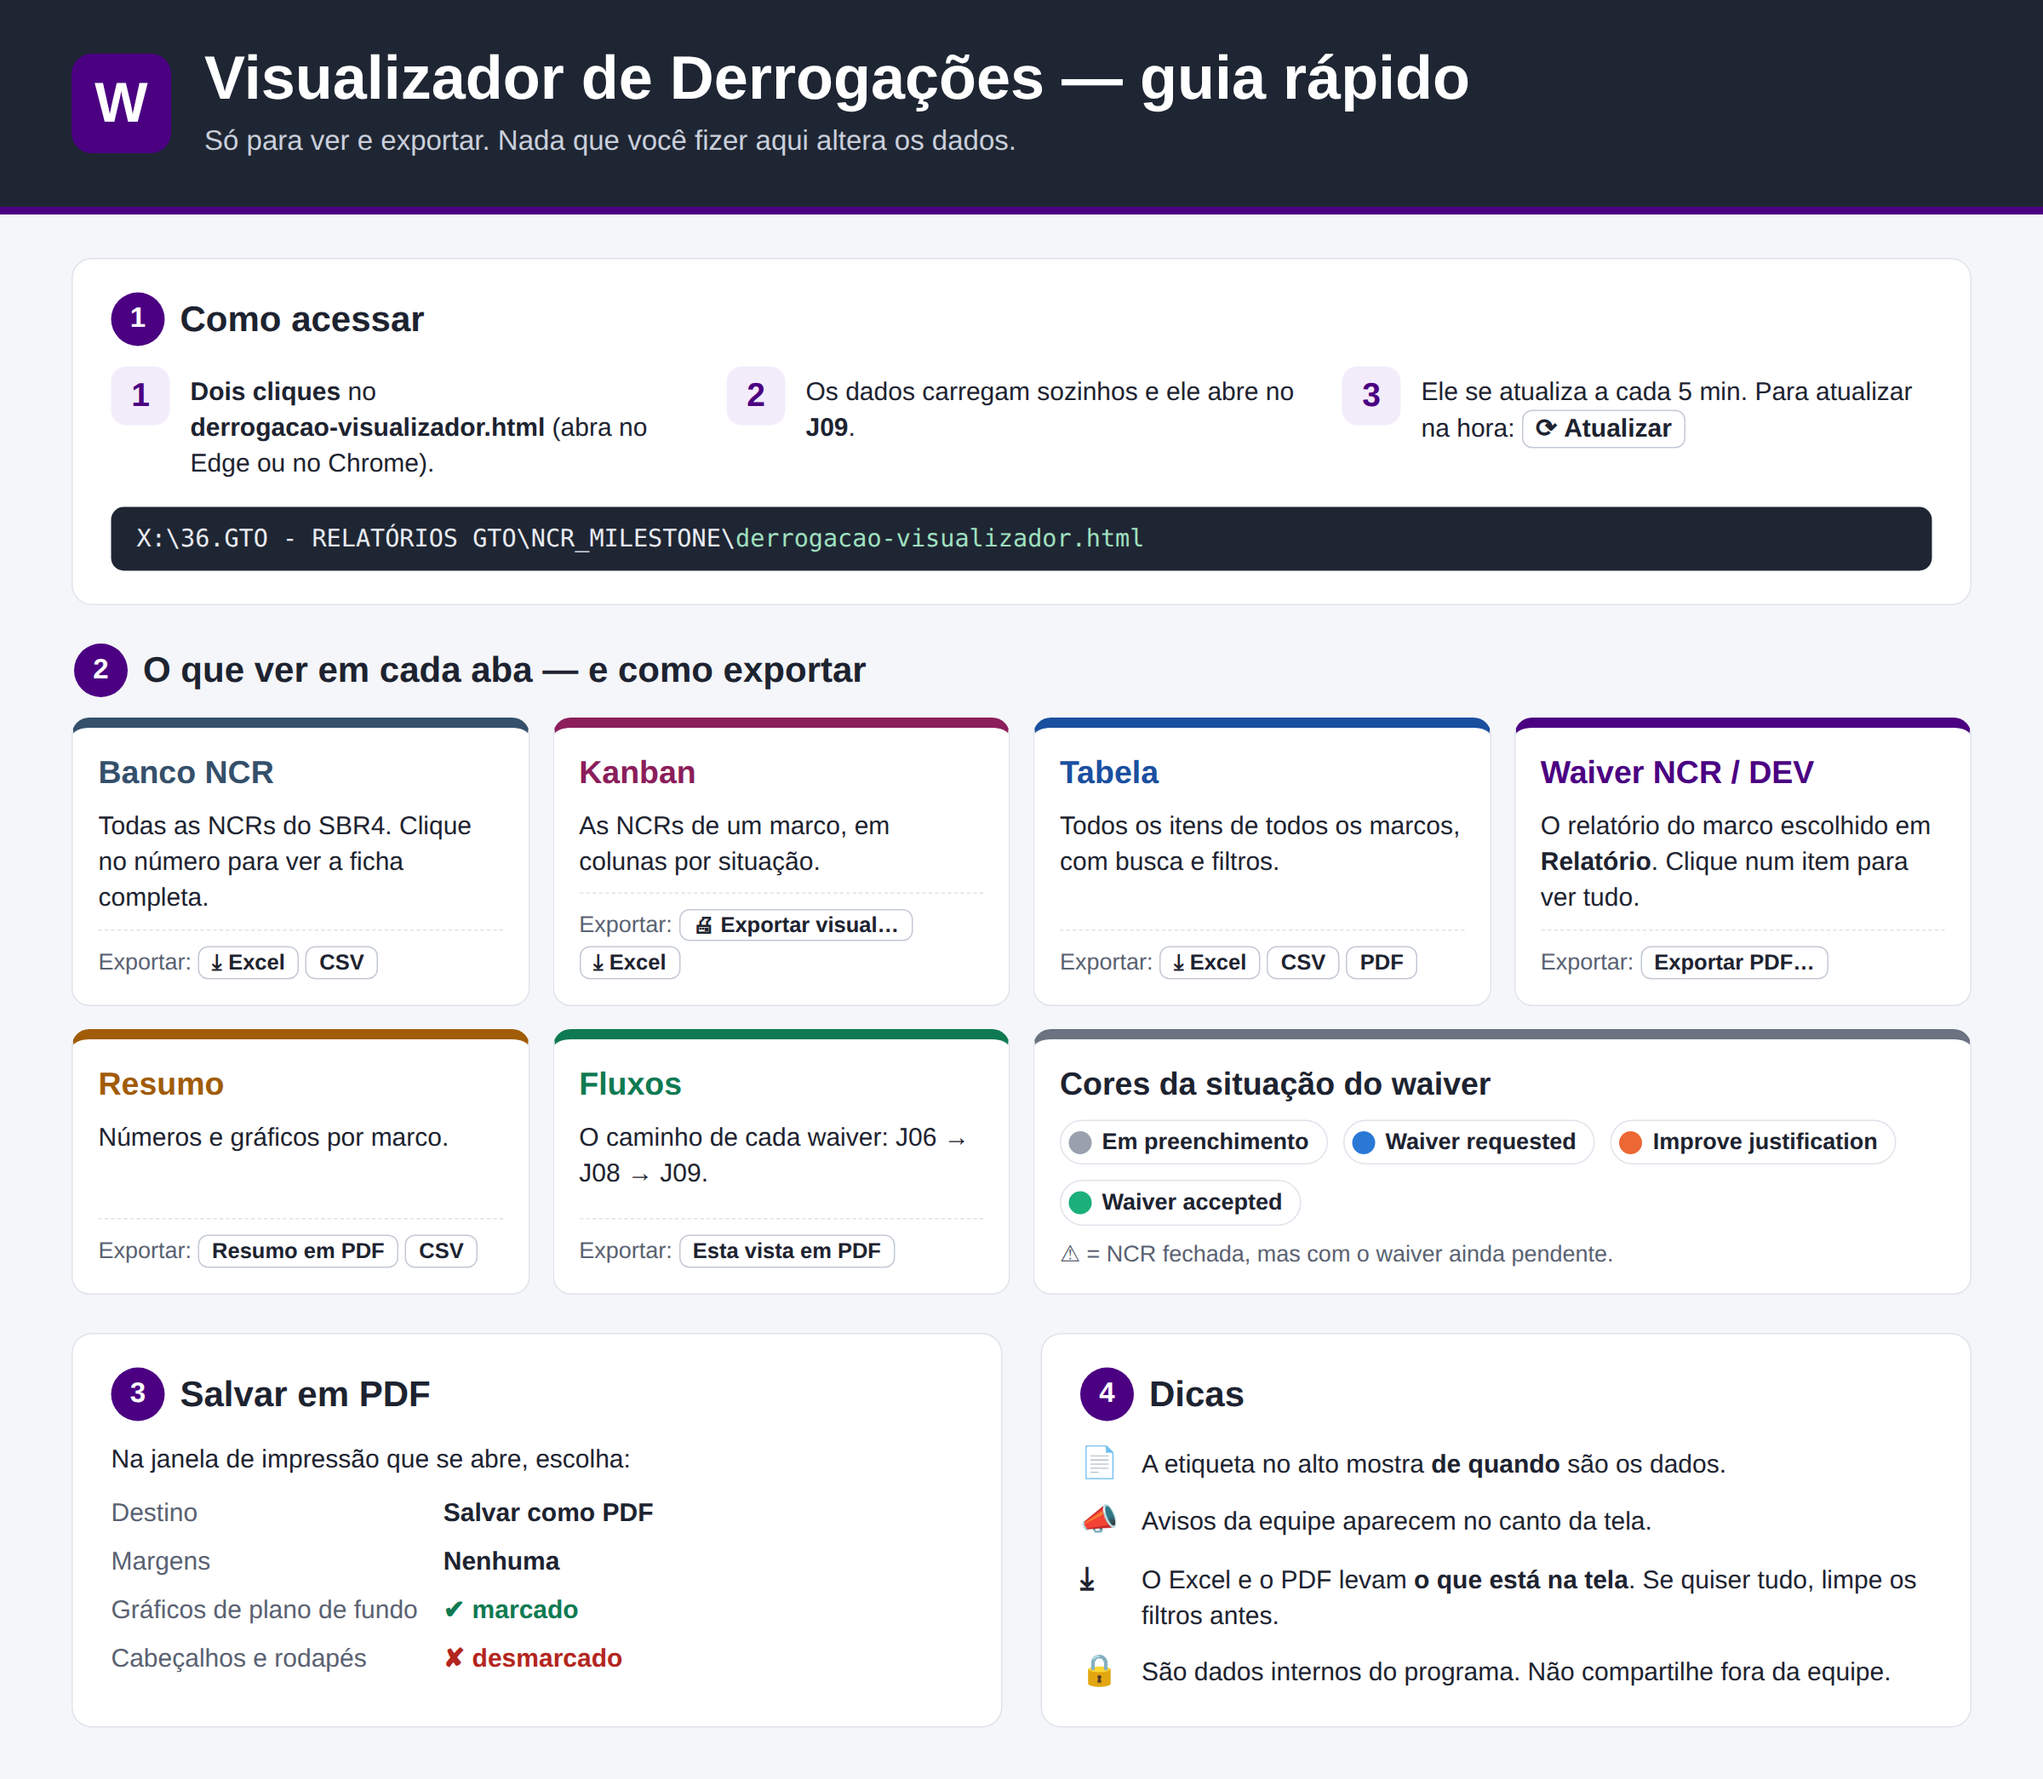
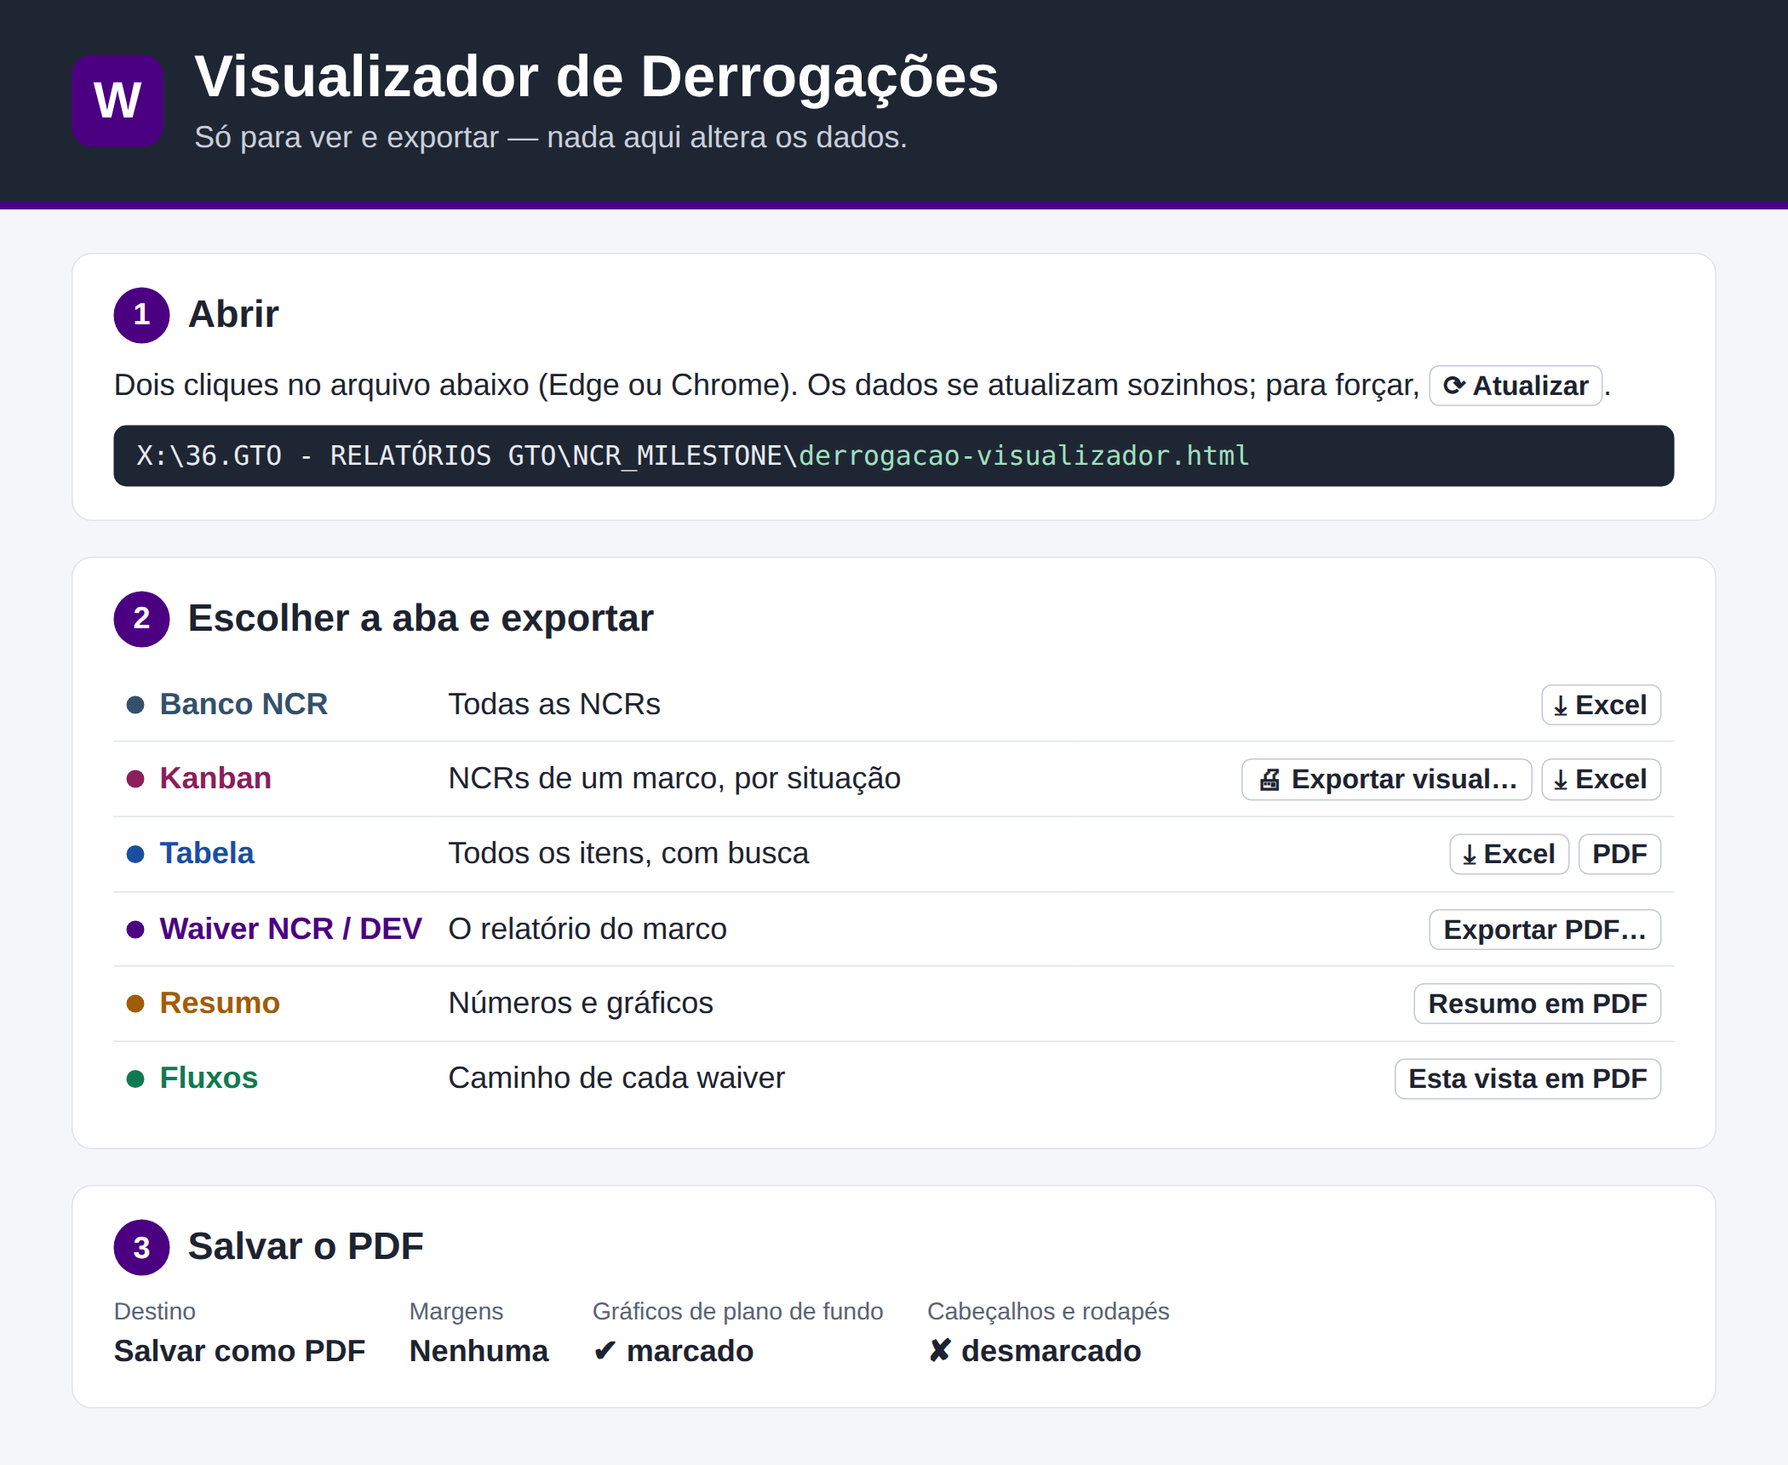
Guia do visualizador ainda mais simples: abrir, abas e salvar o PDF
Claude-Session: https://claude.ai/code/session_0136iEdfLGbrAZewDpN8rQhW

diff --git a/docs/visualizador-guia.html b/docs/visualizador-guia.html
@@ -6,64 +6,42 @@
 <!-- Fonte do docs/visualizador-guia.png. Para regerar a imagem depois de
      editar este arquivo: node tools/guia-png.js -->
 <style>
-  :root {
-    --tinta: #1d2330; --suave: #5a6272; --linha: #dfe3ea; --fundo: #f4f6f9;
-    --topo: #1f2633; --roxo: #4B0082;
-  }
+  :root { --tinta: #1d2330; --suave: #5a6272; --linha: #dfe3ea; --fundo: #f4f6f9;
+    --topo: #1f2633; --roxo: #4B0082; }
   * { box-sizing: border-box; }
   body { margin: 0; background: var(--fundo); color: var(--tinta);
-    font: 20px/1.4 "Segoe UI", "Inter", "Helvetica Neue", Arial, sans-serif; }
-  .folha { width: 1600px; padding-bottom: 40px; }
+    font: 24px/1.4 "Segoe UI", "Inter", "Helvetica Neue", Arial, sans-serif; }
+  .folha { width: 1400px; padding-bottom: 44px; }
 
-  .cab { background: var(--topo); color: #fff; padding: 36px 56px; display: flex;
-    align-items: center; gap: 26px; border-bottom: 6px solid var(--roxo); }
-  .logo { width: 78px; height: 78px; border-radius: 16px; background: var(--roxo); flex: none;
-    display: grid; place-items: center; font-weight: 800; font-size: 44px; }
-  .cab h1 { margin: 0; font-size: 48px; line-height: 1.1; }
-  .cab p { margin: 6px 0 0; font-size: 22px; color: #c9cfdb; }
+  .cab { background: var(--topo); color: #fff; padding: 34px 56px; display: flex;
+    align-items: center; gap: 24px; border-bottom: 6px solid var(--roxo); }
+  .logo { width: 72px; height: 72px; border-radius: 16px; background: var(--roxo); flex: none;
+    display: grid; place-items: center; font-weight: 800; font-size: 40px; }
+  .cab h1 { margin: 0; font-size: 46px; line-height: 1.1; }
+  .cab p { margin: 6px 0 0; color: #c9cfdb; }
 
-  .corpo { padding: 34px 56px 0; display: grid; gap: 30px; }
-  h2 { margin: 0 0 16px; font-size: 28px; display: flex; align-items: center; gap: 12px; }
-  h2 .n { width: 42px; height: 42px; border-radius: 50%; background: var(--roxo); color: #fff;
-    display: grid; place-items: center; font-size: 22px; flex: none; }
-  .bloco { background: #fff; border: 1px solid var(--linha); border-radius: 16px; padding: 26px 30px; }
+  .corpo { padding: 34px 56px 0; display: grid; gap: 28px; }
+  .bloco { background: #fff; border: 1px solid var(--linha); border-radius: 16px; padding: 26px 32px; }
+  h2 { margin: 0 0 16px; font-size: 30px; display: flex; align-items: center; gap: 14px; }
+  h2 .n { width: 44px; height: 44px; border-radius: 50%; background: var(--roxo); color: #fff;
+    display: grid; place-items: center; font-size: 24px; flex: none; }
+  p { margin: 0; }
   .btn { display: inline-block; border: 1px solid #c3c9d4; background: #fff; border-radius: 8px;
-    padding: 0 10px; font-weight: 600; white-space: nowrap; }
-
-  /* acessar */
-  .passos { display: grid; grid-template-columns: repeat(3, 1fr); gap: 20px; }
-  .passo { display: flex; gap: 16px; align-items: flex-start; }
-  .passo b.num { flex: none; width: 46px; height: 46px; border-radius: 12px; background: #f3ecfb;
-    color: var(--roxo); display: grid; place-items: center; font-size: 26px; }
-  .passo div { padding-top: 6px; }
-  .pasta { margin-top: 20px; background: var(--topo); color: #e8ebf2; border-radius: 10px;
-    padding: 14px 20px; font: 19px Consolas, "Cascadia Mono", "DejaVu Sans Mono", monospace; }
+    padding: 0 10px; font-weight: 600; white-space: nowrap; font-size: .9em; }
+  .pasta { margin-top: 14px; background: var(--topo); color: #e8ebf2; border-radius: 10px;
+    padding: 12px 18px; font: 21px Consolas, "Cascadia Mono", "DejaVu Sans Mono", monospace; }
   .pasta em { color: #9fe0c0; font-style: normal; }
 
-  /* abas */
-  .abas { display: grid; grid-template-columns: repeat(4, 1fr); gap: 18px; }
-  .aba { background: #fff; border: 1px solid var(--linha); border-top: 8px solid var(--c);
-    border-radius: 14px; padding: 18px 20px; display: flex; flex-direction: column; gap: 10px; }
-  .aba h3 { margin: 0; font-size: 25px; color: var(--c); }
-  .aba p { margin: 0; }
-  .aba .exp { margin-top: auto; padding-top: 10px; border-top: 1px dashed var(--linha);
-    font-size: 18px; color: var(--suave); }
-  .aba .exp .btn { color: var(--tinta); font-size: 17px; margin: 2px 0; }
+  table { width: 100%; border-collapse: collapse; }
+  td { padding: 12px 10px; border-top: 1px solid var(--linha); vertical-align: middle; }
+  tr:first-child td { border-top: 0; }
+  td.aba { font-weight: 700; color: var(--c); white-space: nowrap; width: 250px; }
+  td.aba::before { content: ""; display: inline-block; width: 14px; height: 14px; border-radius: 50%;
+    background: var(--c); margin-right: 12px; }
+  td.exp { text-align: right; white-space: nowrap; }
 
-  .sits { display: flex; gap: 12px; flex-wrap: wrap; align-items: center; }
-  .sit { display: inline-flex; align-items: center; gap: 8px; font-weight: 600; font-size: 18px;
-    border: 1px solid var(--linha); border-radius: 999px; padding: 4px 14px 4px 6px; background: #fff; }
-  .sit i { width: 18px; height: 18px; border-radius: 50%; background: var(--c); }
-
-  /* pdf e dicas */
-  .dupla { display: grid; grid-template-columns: 1fr 1fr; gap: 30px; }
-  .pdf { display: grid; grid-template-columns: auto 1fr; gap: 10px 20px; }
-  .pdf span:nth-child(odd) { color: var(--suave); }
-  .pdf span:nth-child(even) { font-weight: 700; }
-  .ok { color: #0f7a52; } .no { color: #b3261e; }
-  .dicas { margin: 0; padding: 0; list-style: none; display: grid; gap: 12px; }
-  .dicas li { display: flex; gap: 14px; align-items: baseline; }
-  .dicas li > b:first-child { flex: none; width: 34px; font-size: 24px; }
+  .pdf { display: flex; gap: 14px 34px; flex-wrap: wrap; font-weight: 600; }
+  .pdf span small { display: block; font-weight: 400; color: var(--suave); font-size: 19px; }
 </style>
 </head>
 <body>
@@ -72,91 +50,40 @@
   <header class="cab">
     <div class="logo">W</div>
     <div>
-      <h1>Visualizador de Derrogações — guia rápido</h1>
-      <p>Só para ver e exportar. Nada que você fizer aqui altera os dados.</p>
+      <h1>Visualizador de Derrogações</h1>
+      <p>Só para ver e exportar — nada aqui altera os dados.</p>
     </div>
   </header>
 
   <div class="corpo">
 
     <section class="bloco">
-      <h2><span class="n">1</span> Como acessar</h2>
-      <div class="passos">
-        <div class="passo"><b class="num">1</b><div><b>Dois cliques</b> no <b style="white-space:nowrap">derrogacao-visualizador.html</b> (abra no Edge ou no Chrome).</div></div>
-        <div class="passo"><b class="num">2</b><div>Os dados carregam sozinhos e ele abre no <b>J09</b>.</div></div>
-        <div class="passo"><b class="num">3</b><div>Ele se atualiza a cada 5 min. Para atualizar na hora: <span class="btn">⟳ Atualizar</span></div></div>
-      </div>
+      <h2><span class="n">1</span> Abrir</h2>
+      <p>Dois cliques no arquivo abaixo (Edge ou Chrome). Os dados se atualizam sozinhos; para forçar, <span class="btn">⟳ Atualizar</span>.</p>
       <div class="pasta">X:\36.GTO - RELATÓRIOS GTO\NCR_MILESTONE\<em>derrogacao-visualizador.html</em></div>
     </section>
 
-    <section>
-      <h2 style="padding-left:2px"><span class="n">2</span> O que ver em cada aba — e como exportar</h2>
-      <div class="abas">
-        <article class="aba" style="--c:#34506b">
-          <h3>Banco NCR</h3>
-          <p>Todas as NCRs do SBR4. Clique no número para ver a ficha completa.</p>
-          <div class="exp">Exportar: <span class="btn">⤓ Excel</span> <span class="btn">CSV</span></div>
-        </article>
-        <article class="aba" style="--c:#8b1e5b">
-          <h3>Kanban</h3>
-          <p>As NCRs de um marco, em colunas por situação.</p>
-          <div class="exp">Exportar: <span class="btn">🖨 Exportar visual…</span> <span class="btn">⤓ Excel</span></div>
-        </article>
-        <article class="aba" style="--c:#1a4fa0">
-          <h3>Tabela</h3>
-          <p>Todos os itens de todos os marcos, com busca e filtros.</p>
-          <div class="exp">Exportar: <span class="btn">⤓ Excel</span> <span class="btn">CSV</span> <span class="btn">PDF</span></div>
-        </article>
-        <article class="aba" style="--c:#4B0082">
-          <h3>Waiver NCR / DEV</h3>
-          <p>O relatório do marco escolhido em <b>Relatório</b>. Clique num item para ver tudo.</p>
-          <div class="exp">Exportar: <span class="btn">Exportar PDF…</span></div>
-        </article>
-        <article class="aba" style="--c:#a15c07">
-          <h3>Resumo</h3>
-          <p>Números e gráficos por marco.</p>
-          <div class="exp">Exportar: <span class="btn">Resumo em PDF</span> <span class="btn">CSV</span></div>
-        </article>
-        <article class="aba" style="--c:#0f7a52">
-          <h3>Fluxos</h3>
-          <p>O caminho de cada waiver: J06 → J08 → J09.</p>
-          <div class="exp">Exportar: <span class="btn">Esta vista em PDF</span></div>
-        </article>
-        <article class="aba" style="--c:#6b7280; grid-column: span 2">
-          <h3 style="color:var(--tinta)">Cores da situação do waiver</h3>
-          <div class="sits">
-            <span class="sit" style="--c:#9aa1ae"><i></i>Em preenchimento</span>
-            <span class="sit" style="--c:#2a78d6"><i></i>Waiver requested</span>
-            <span class="sit" style="--c:#eb6834"><i></i>Improve justification</span>
-            <span class="sit" style="--c:#1baf7a"><i></i>Waiver accepted</span>
-          </div>
-          <p style="color:var(--suave);font-size:18px">⚠ = NCR fechada, mas com o waiver ainda pendente.</p>
-        </article>
-      </div>
+    <section class="bloco">
+      <h2><span class="n">2</span> Escolher a aba e exportar</h2>
+      <table>
+        <tr><td class="aba" style="--c:#34506b">Banco NCR</td><td>Todas as NCRs</td><td class="exp"><span class="btn">⤓ Excel</span></td></tr>
+        <tr><td class="aba" style="--c:#8b1e5b">Kanban</td><td>NCRs de um marco, por situação</td><td class="exp"><span class="btn">🖨 Exportar visual…</span> <span class="btn">⤓ Excel</span></td></tr>
+        <tr><td class="aba" style="--c:#1a4fa0">Tabela</td><td>Todos os itens, com busca</td><td class="exp"><span class="btn">⤓ Excel</span> <span class="btn">PDF</span></td></tr>
+        <tr><td class="aba" style="--c:#4B0082">Waiver NCR / DEV</td><td>O relatório do marco</td><td class="exp"><span class="btn">Exportar PDF…</span></td></tr>
+        <tr><td class="aba" style="--c:#a15c07">Resumo</td><td>Números e gráficos</td><td class="exp"><span class="btn">Resumo em PDF</span></td></tr>
+        <tr><td class="aba" style="--c:#0f7a52">Fluxos</td><td>Caminho de cada waiver</td><td class="exp"><span class="btn">Esta vista em PDF</span></td></tr>
+      </table>
     </section>
 
-    <div class="dupla">
-      <section class="bloco">
-        <h2><span class="n">3</span> Salvar em PDF</h2>
-        <p style="margin:0 0 14px">Na janela de impressão que se abre, escolha:</p>
-        <div class="pdf">
-          <span>Destino</span><span>Salvar como PDF</span>
-          <span>Margens</span><span>Nenhuma</span>
-          <span>Gráficos de plano de fundo</span><span class="ok">✔ marcado</span>
-          <span>Cabeçalhos e rodapés</span><span class="no">✘ desmarcado</span>
-        </div>
-      </section>
-
-      <section class="bloco">
-        <h2><span class="n">4</span> Dicas</h2>
-        <ul class="dicas">
-          <li><b>📄</b><span>A etiqueta no alto mostra <b>de quando</b> são os dados.</span></li>
-          <li><b>📣</b><span>Avisos da equipe aparecem no canto da tela.</span></li>
-          <li><b>⤓</b><span>O Excel e o PDF levam <b>o que está na tela</b>. Se quiser tudo, limpe os filtros antes.</span></li>
-          <li><b>🔒</b><span>São dados internos do programa. Não compartilhe fora da equipe.</span></li>
-        </ul>
-      </section>
-    </div>
+    <section class="bloco">
+      <h2><span class="n">3</span> Salvar o PDF</h2>
+      <div class="pdf">
+        <span><small>Destino</small>Salvar como PDF</span>
+        <span><small>Margens</small>Nenhuma</span>
+        <span><small>Gráficos de plano de fundo</small>✔ marcado</span>
+        <span><small>Cabeçalhos e rodapés</small>✘ desmarcado</span>
+      </div>
+    </section>
 
   </div>
 </div>
